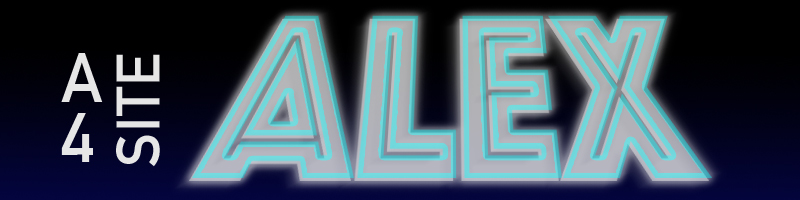
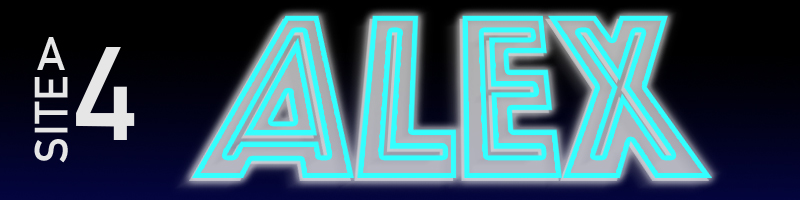
made changes to index, added about and portfolio page

Changed region(s): [[0.2188, 0.06, 0.9062, 0.9], [0.0312, 0.18, 0.2188, 0.84]]

diff --git a/index.html b/index.html
@@ -1,21 +1,47 @@
 <!DOCTYPE html>
-<html lang="en"> //shows that the language for this site is in english.
+<html lang="en"> 
+<!-- shows that the language for this site is in english. -->
 <head>
 	<title>Alex's Site</title>
 
-		<style type="text/css"> //this is the in-line style sheet that formats the page.
-			div.container {width: 1000px;
-						align-content: center;}
+		<style type="text/css">
+		 /*//this is the in-line style sheet that formats the page.*/
+			div.container {max-width: 1000px;
+							margin: 0 auto;}
+			div.header {position: relative;
+						height: 200px;
+						color: orange;}
+			body {font-family: arial,helvetica,sans-serif;}
+			div.menu-nav {position: relative;
+						color:red;
+						height:50px;
+						width: 800px;}
+			th  {padding-right:25px;
+				 padding-left:25px;}
+			a 	{text-decoration: none;}
+			a:hover {color: gray;} /* this is so that when you hover over the link, you know it can be activated */
+			a:active {color:orange;} /* active links will display as orange*/
 
 		</style>
 
 </head>
 <body>
-	<div id="container-1" class="container"> // this div contains all the contents of the body
-		<div id="header-1" class="header"> //this div contains the header
-
-
-
+	<div id="container-1" class="container"> 
+	<!-- this div contains all the contents of the body -->
+		<div id="header-1" class="header"> 
+		<!-- this div contains the header -->
+			<a href="AlexGio18.github.io/index.html"><img src="assets/Alex_Header_1.jpg" alt="Alex Banner"></a>
+			<!-- image in the header + link to the homepage(index)-->
+		</div>
+		<div id="menu-nav1" class="menu-nav">
+		<!-- div contains a navigation menu made from a table with nav-links to other pages in the website. -->
+			<table>
+				<tr>
+					<th><a href="AlexGio18.github.io/index.html">Home</a></th>
+					<th>About</th>
+					<th>Portfolio</th>
+				</tr>
+			</table>
 
 
 
